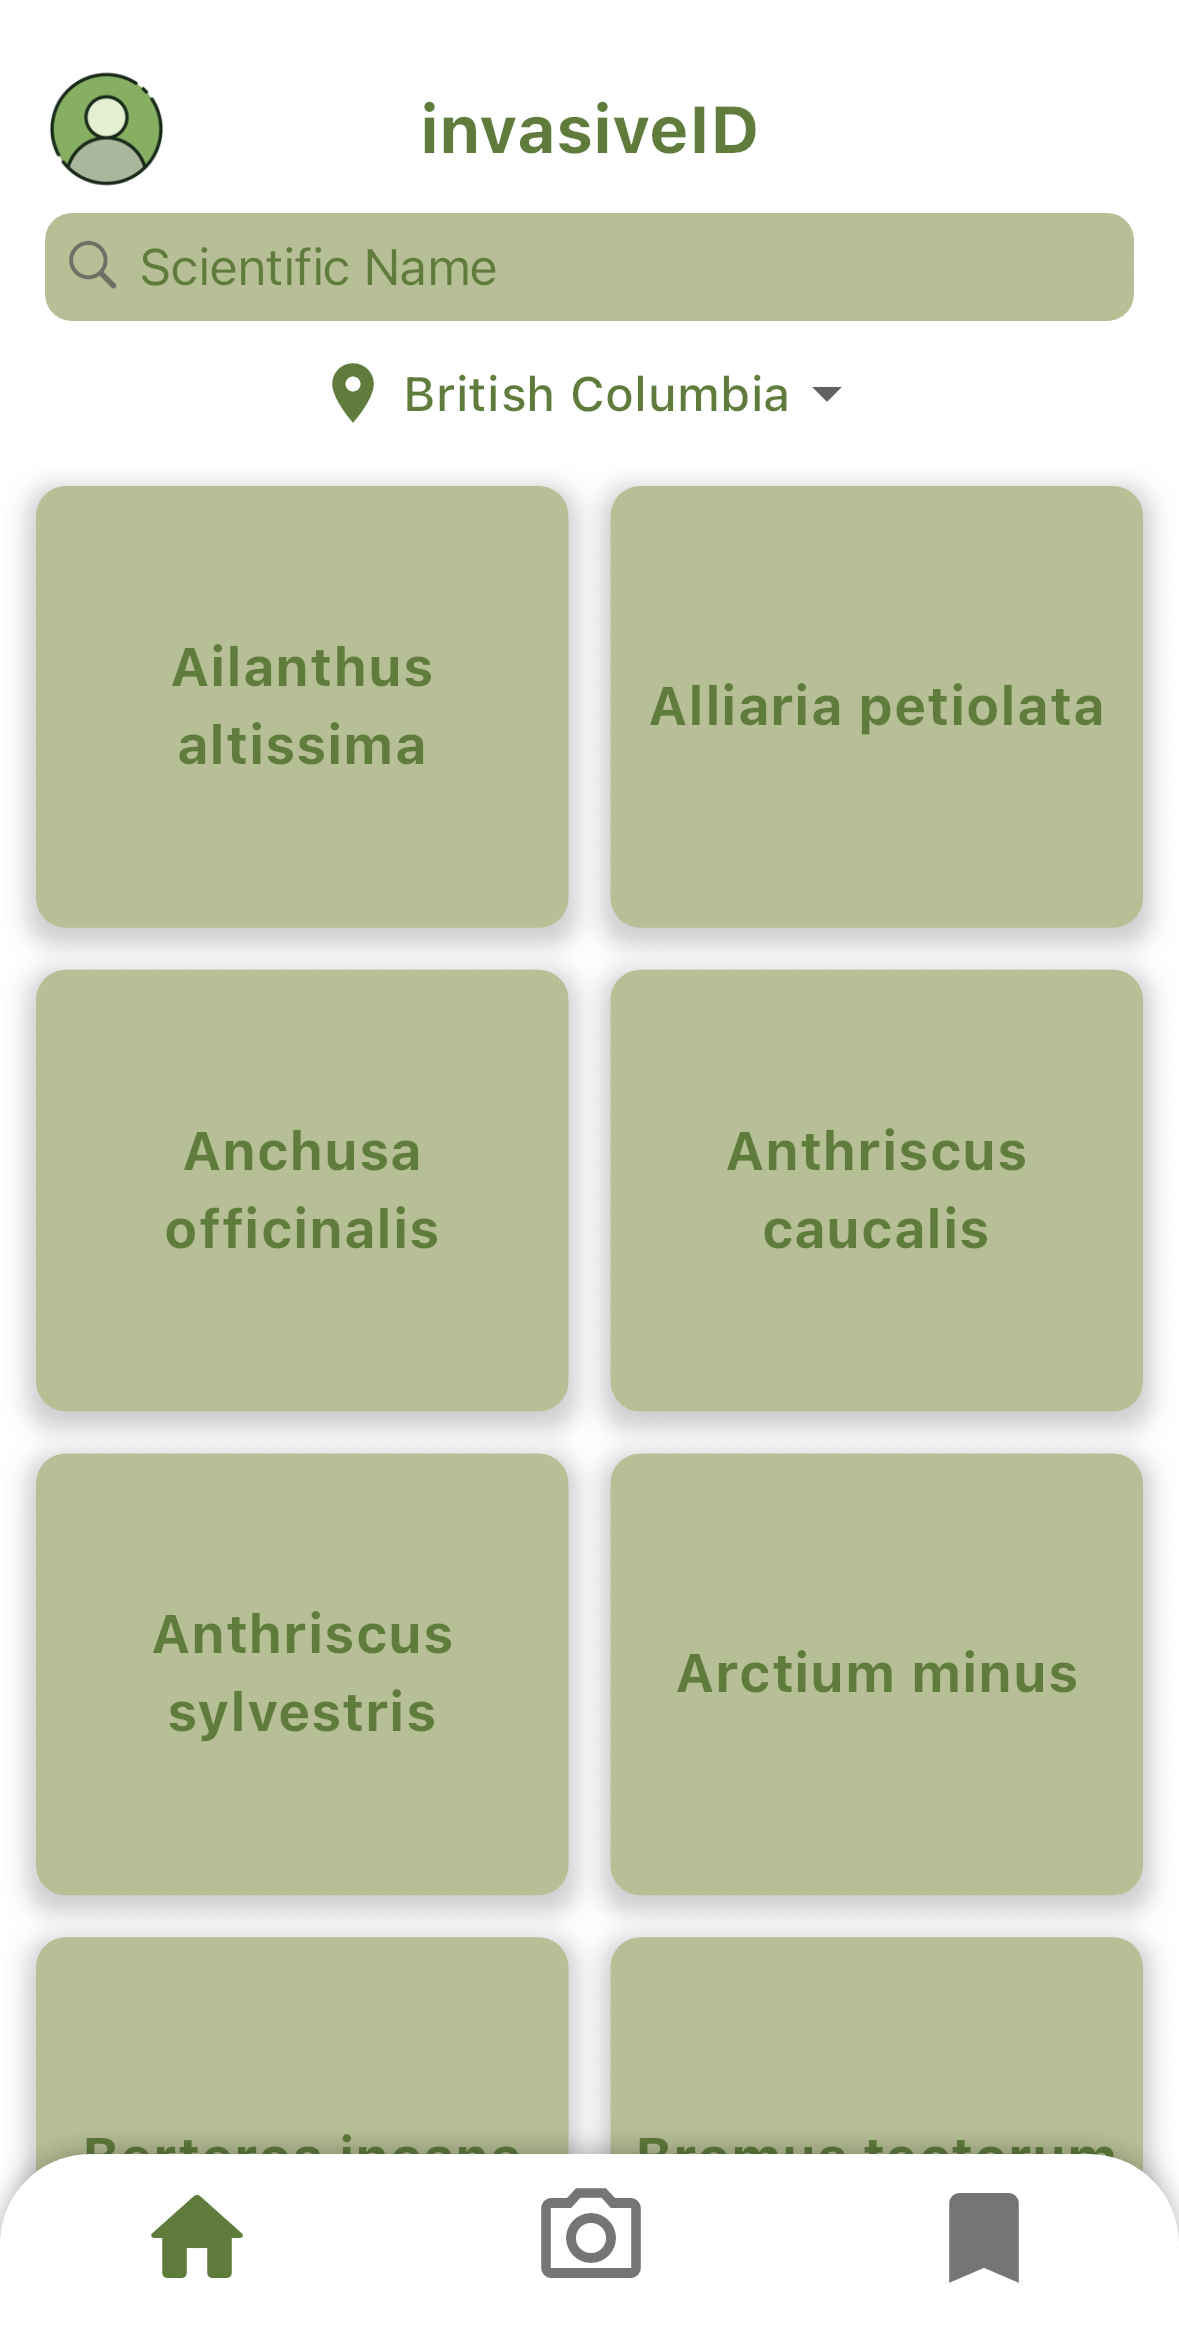
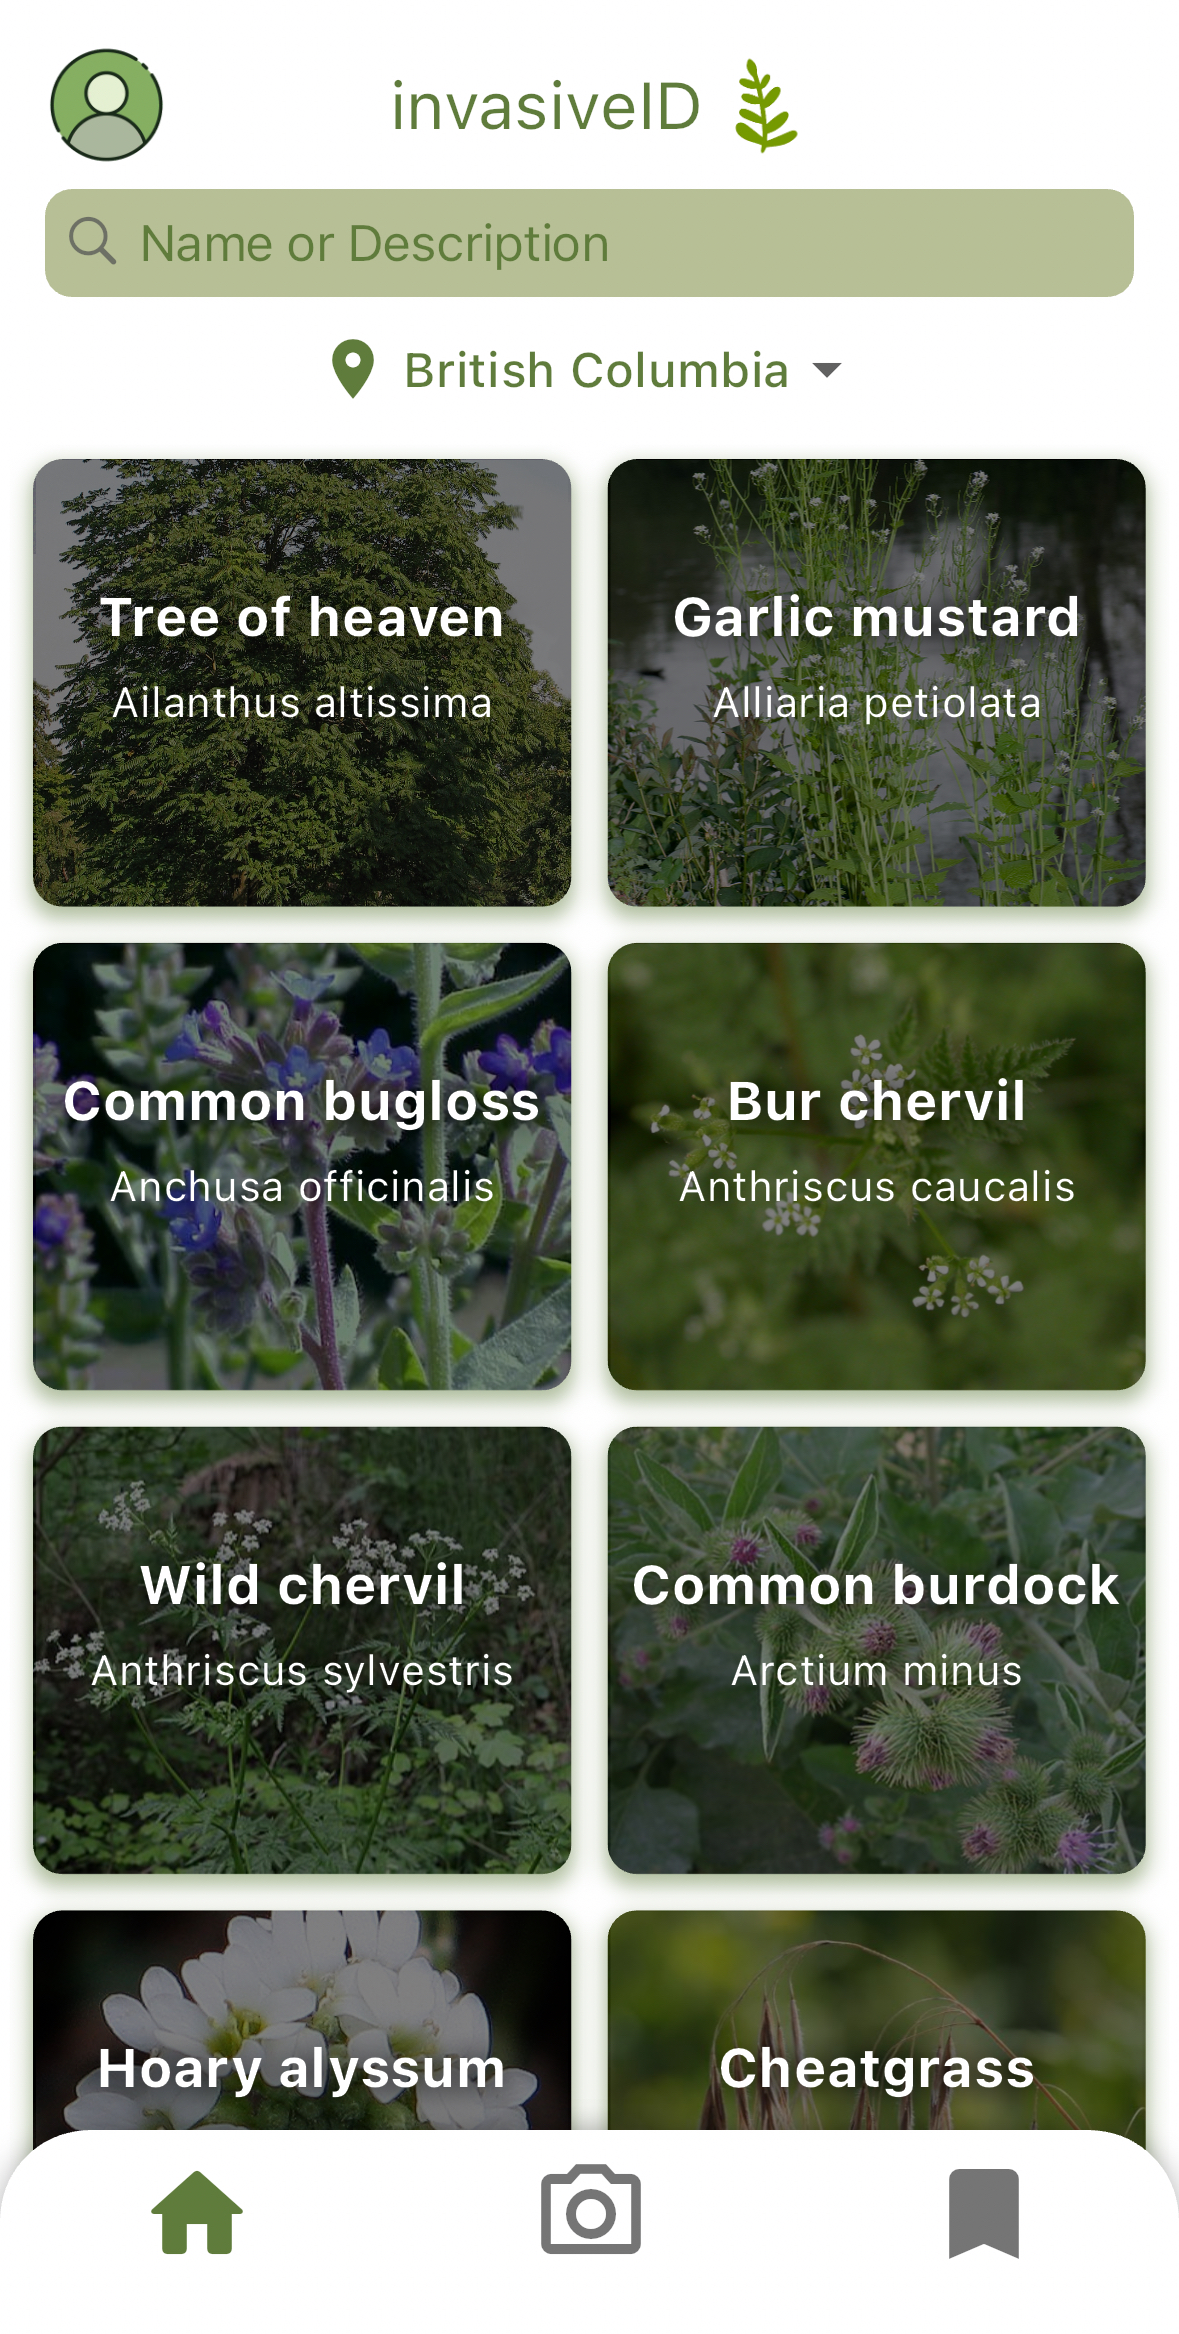
update readme and user guide

diff --git a/docs/UserGuide.md b/docs/UserGuide.md
@@ -25,7 +25,7 @@ Next, the user can log in or sign up with their email. Signing up is only requir
 
 |   |   |
 |---|---|
-|<img src="../assets/screenshots/homepage.jpg" width="100%"> | After logging in or continuing as guest, the user will be directed to the Home Page. This page displays all of the invasive plants that fall within the selected region, which the user has the option to change. The app currently supports invasive plants in British Columbia and Ontario. The user can scroll through and browse these plants or search up a specific invasive plant by scientific name. |
+|<img src="../assets/screenshots/homepage.jpg" width="100%"> | After logging in or continuing as guest, the user will be directed to the Home Page. This page displays all of the invasive plants that fall within the selected region, which the user has the option to change. The app currently supports invasive plants in British Columbia and Ontario. The user can scroll through and browse these plants or search up a specific invasive plant by scientific name, common name, or description. |
 |<img src="../assets/screenshots/homepagedialog.jpg" width="100%"> | **Profile Icon**: Located at the top left corner of the Home Page, a profile icon can be pressed. If the user is already signed in, they will have the option to sign out or delete their account. Otherwise, clicking on this icon redirects the user to the login page. |
 
 

diff --git a/README.md b/README.md
@@ -85,7 +85,7 @@ Licenses of libraries and tools used by the system are listed below:
 
 [MIT License](https://opensource.org/license/mit/)
 
-- For cupertino_icons, permission_handler, provider, flutter_cache_manager, geolocator, geocoding, flutter_launcher_icons, flutter_native_splash, and flutter_dotenv
+- For cupertino_icons, permission_handler, provider, flutter_cache_manager, geolocator, geocoding, flutter_launcher_icons, flutter_native_splash, flutter_dotenv, and cached_network_image
 
 [BSD 3-clause](https://opensource.org/license/bsd-3-clause/)
 
